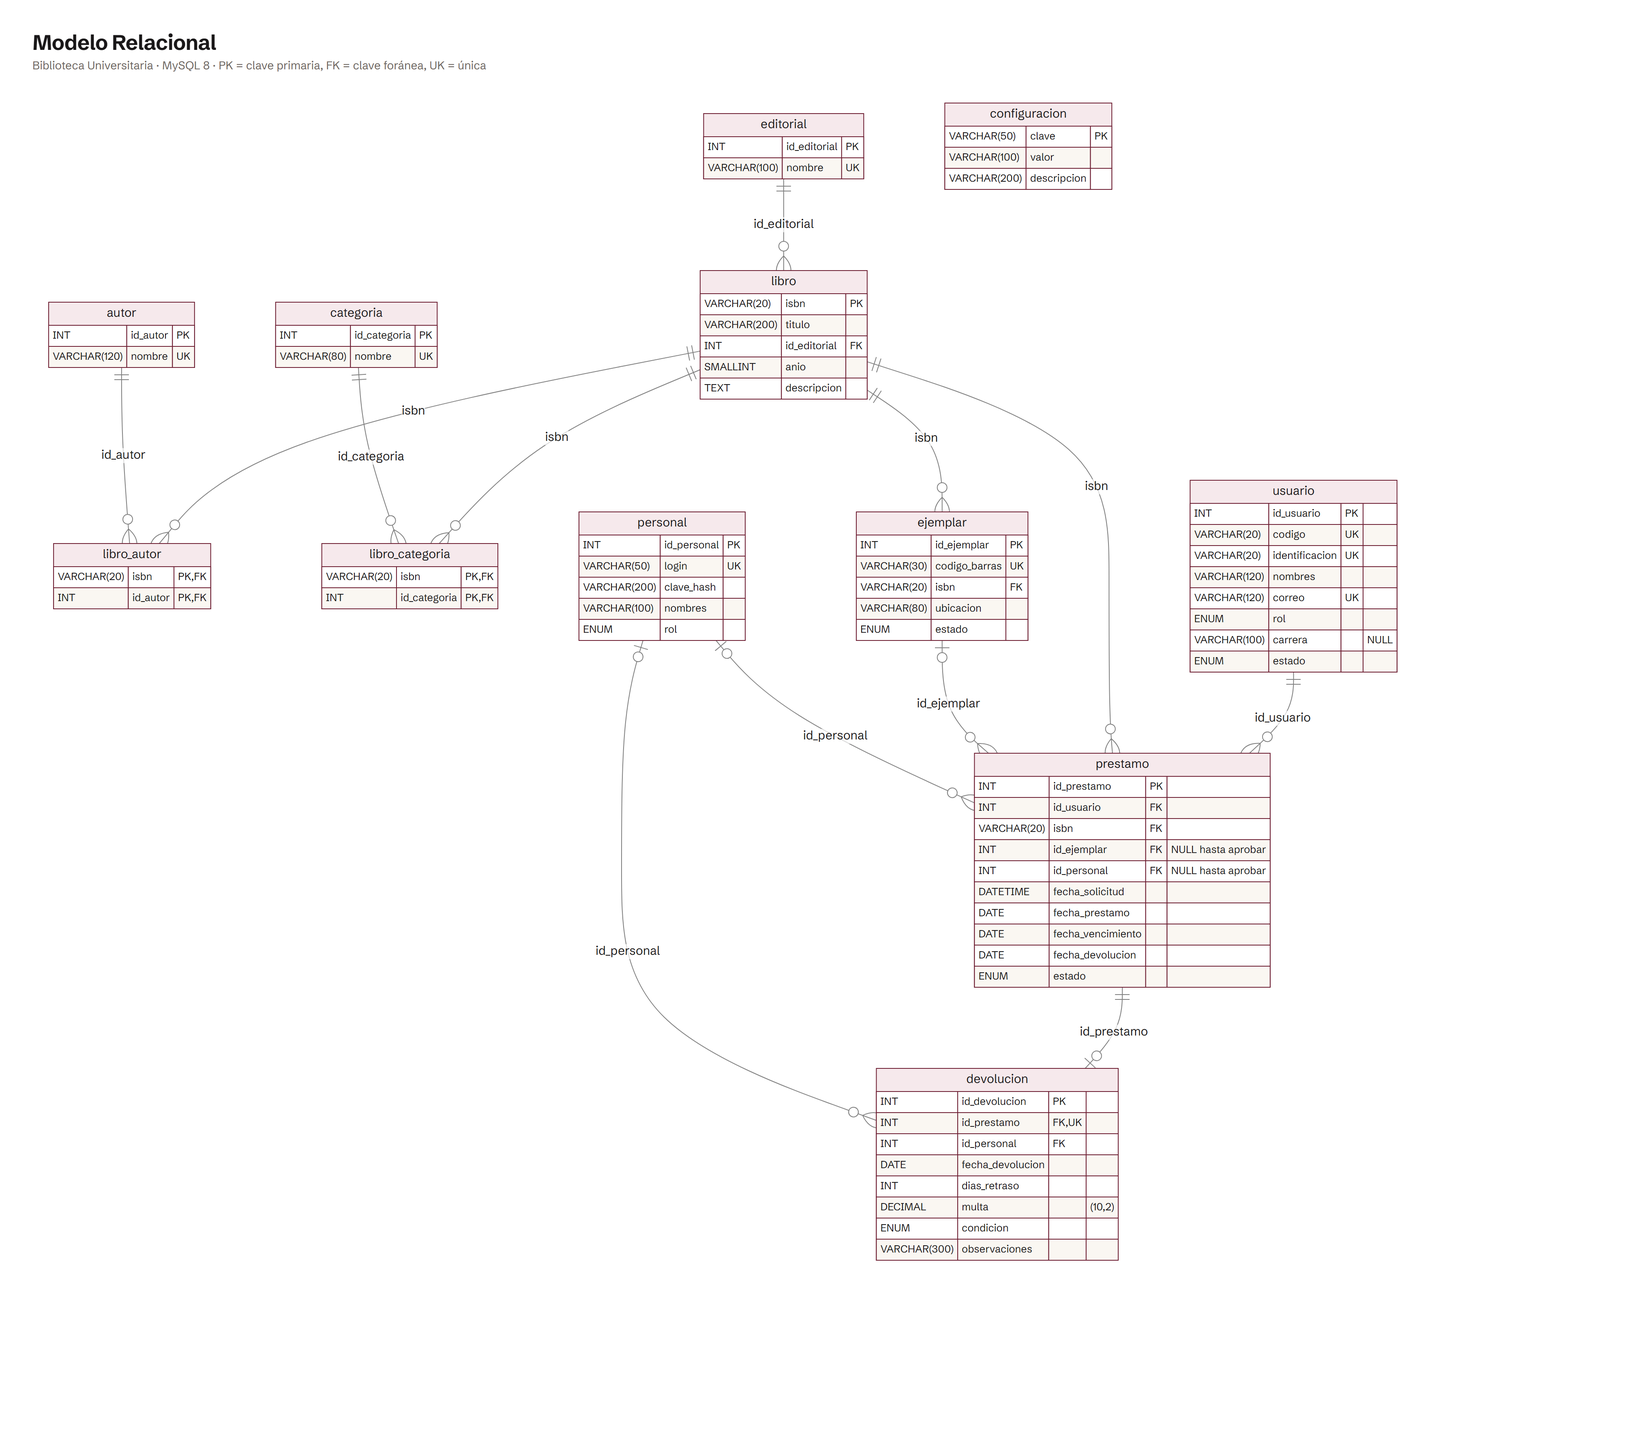
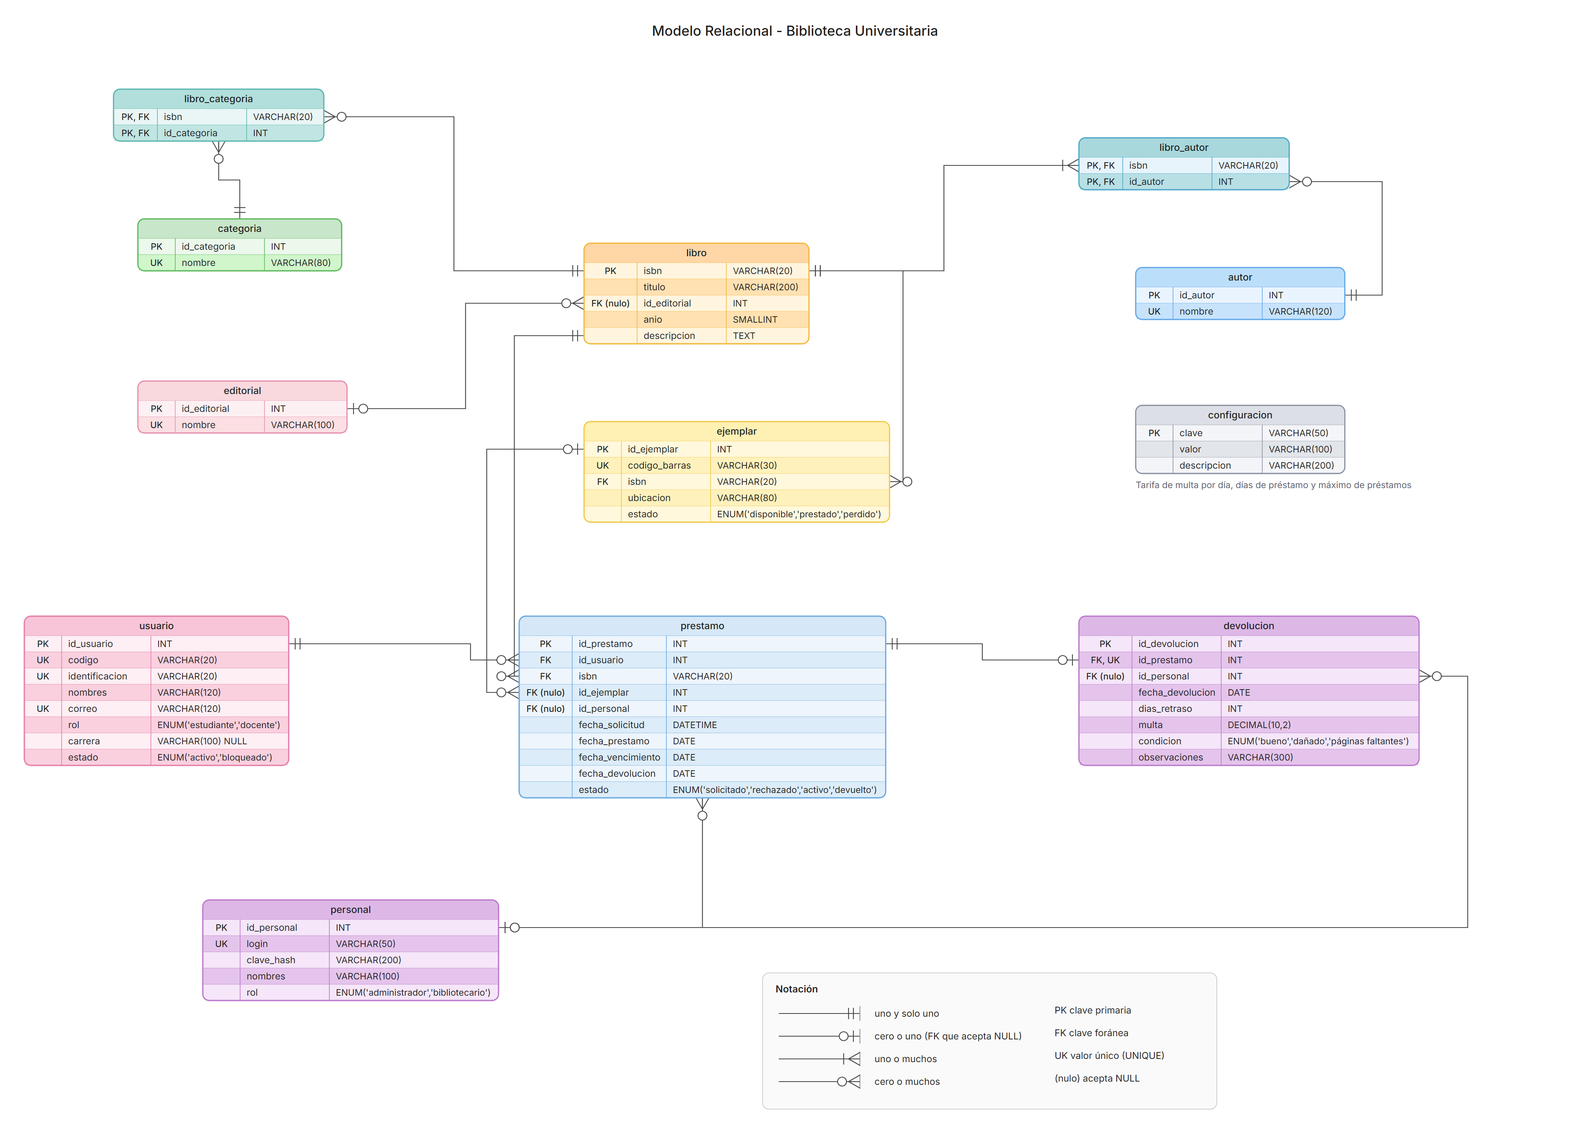
Diagramas MER (notación de Chen) y relacional corregidos y alineados con schema.sql

diff --git a/docs/fuentes/Modelo_Relacional.html b/docs/fuentes/Modelo_Relacional.html
@@ -1,0 +1,154 @@
+<!doctype html>
+<html><head><meta charset="utf-8">
+<link href="https://fonts.googleapis.com/css2?family=Inter:wght@400;500;600&display=swap" rel="stylesheet">
+<style>html,body{margin:0;background:#fff}svg{display:block}</style>
+</head><body>
+<svg id="s" xmlns="http://www.w3.org/2000/svg"></svg>
+<script>
+const W = 1960, H = 1390;
+const svg = document.getElementById("s");
+svg.setAttribute("width", W); svg.setAttribute("height", H); svg.setAttribute("viewBox", `0 0 ${W} ${H}`);
+const NS = "http://www.w3.org/2000/svg";
+const el = (t, a, parent = svg) => { const e = document.createElementNS(NS, t); for (const k in a) e.setAttribute(k, a[k]); parent.appendChild(e); return e; };
+const txt = (x, y, s, a = {}, parent = svg) => { const e = el("text", { x, y, "font-family": "Inter, Arial, sans-serif", "font-size": 12, fill: "#1f1f1f", ...a }, parent); e.textContent = s; return e; };
+const ctx = document.createElement("canvas").getContext("2d");
+const measure = (s, w = 400) => { ctx.font = `${w} 12px Inter, Arial`; return ctx.measureText(s).width; };
+
+// paletas en el estilo original: [encabezado, fila clara, fila oscura, borde]
+const P = {
+  teal:   ["#B2DFDB", "#EAF6F5", "#B2DFDB", "#5BB6AD"],
+  tealb:  ["#A8D8DC", "#E8F4FB", "#A8D8DC", "#4FA8C9"],
+  green:  ["#C8E6C9", "#ECF8EC", "#C8F5C0", "#5CB85C"],
+  orange: ["#FFD6A6", "#FFF5DF", "#FFD9A3", "#F2B83D"],
+  yellow: ["#FFF0B3", "#FFF8DC", "#FFEFB0", "#F2C94C"],
+  pink:   ["#F9D9DE", "#FDF0F3", "#F9D9DE", "#E58FB0"],
+  blue:   ["#BBDEFB", "#EAF4FE", "#BBDEFB", "#64A8E8"],
+  rose:   ["#F8C5D8", "#FDEFF4", "#F8C5D8", "#E57BA8"],
+  sky:    ["#D6E8F7", "#EEF5FC", "#D6E8F7", "#6AA9E0"],
+  purple: ["#DDB8E6", "#F5E6F9", "#DDB8E6", "#BB77CC"],
+  gray:   ["#DCDFE6", "#F4F5F8", "#DCDFE6", "#8C93A3"],
+};
+const T = {
+  libro_categoria: { x: 140, y: 110, c: "teal", rows: [["PK, FK", "isbn", "VARCHAR(20)"], ["PK, FK", "id_categoria", "INT"]] },
+  categoria: { x: 170, y: 270, c: "green", rows: [["PK", "id_categoria", "INT"], ["UK", "nombre", "VARCHAR(80)"]] },
+  libro: { x: 720, y: 300, c: "orange", rows: [["PK", "isbn", "VARCHAR(20)"], ["", "titulo", "VARCHAR(200)"], ["FK (nulo)", "id_editorial", "INT"], ["", "anio", "SMALLINT"], ["", "descripcion", "TEXT"]] },
+  libro_autor: { x: 1330, y: 170, c: "tealb", rows: [["PK, FK", "isbn", "VARCHAR(20)"], ["PK, FK", "id_autor", "INT"]] },
+  autor: { x: 1400, y: 330, c: "blue", rows: [["PK", "id_autor", "INT"], ["UK", "nombre", "VARCHAR(120)"]] },
+  editorial: { x: 170, y: 470, c: "pink", rows: [["PK", "id_editorial", "INT"], ["UK", "nombre", "VARCHAR(100)"]] },
+  ejemplar: { x: 720, y: 520, c: "yellow", rows: [["PK", "id_ejemplar", "INT"], ["UK", "codigo_barras", "VARCHAR(30)"], ["FK", "isbn", "VARCHAR(20)"], ["", "ubicacion", "VARCHAR(80)"], ["", "estado", "ENUM('disponible','prestado','perdido')"]] },
+  configuracion: { x: 1400, y: 500, c: "gray", rows: [["PK", "clave", "VARCHAR(50)"], ["", "valor", "VARCHAR(100)"], ["", "descripcion", "VARCHAR(200)"]] },
+  usuario: { x: 30, y: 760, c: "rose", rows: [["PK", "id_usuario", "INT"], ["UK", "codigo", "VARCHAR(20)"], ["UK", "identificacion", "VARCHAR(20)"], ["", "nombres", "VARCHAR(120)"], ["UK", "correo", "VARCHAR(120)"], ["", "rol", "ENUM('estudiante','docente')"], ["", "carrera", "VARCHAR(100) NULL"], ["", "estado", "ENUM('activo','bloqueado')"]] },
+  prestamo: { x: 640, y: 760, c: "sky", rows: [["PK", "id_prestamo", "INT"], ["FK", "id_usuario", "INT"], ["FK", "isbn", "VARCHAR(20)"], ["FK (nulo)", "id_ejemplar", "INT"], ["FK (nulo)", "id_personal", "INT"], ["", "fecha_solicitud", "DATETIME"], ["", "fecha_prestamo", "DATE"], ["", "fecha_vencimiento", "DATE"], ["", "fecha_devolucion", "DATE"], ["", "estado", "ENUM('solicitado','rechazado','activo','devuelto')"]] },
+  devolucion: { x: 1330, y: 760, c: "purple", rows: [["PK", "id_devolucion", "INT"], ["FK, UK", "id_prestamo", "INT"], ["FK (nulo)", "id_personal", "INT"], ["", "fecha_devolucion", "DATE"], ["", "dias_retraso", "INT"], ["", "multa", "DECIMAL(10,2)"], ["", "condicion", "ENUM('bueno','dañado','páginas faltantes')"], ["", "observaciones", "VARCHAR(300)"]] },
+  personal: { x: 250, y: 1110, c: "purple", rows: [["PK", "id_personal", "INT"], ["UK", "login", "VARCHAR(50)"], ["", "clave_hash", "VARCHAR(200)"], ["", "nombres", "VARCHAR(100)"], ["", "rol", "ENUM('administrador','bibliotecario')"]] },
+};
+const HH = 24, RH = 20, PADX = 8;
+
+// medir columnas
+for (const [name, t] of Object.entries(T)) {
+  t.c0 = Math.max(46, ...t.rows.map(r => measure(r[0], 500) + 2 * PADX));
+  t.c1 = Math.max(...t.rows.map(r => measure(r[1]) + 2 * PADX), 110);
+  t.c2 = Math.max(...t.rows.map(r => measure(r[2]) + 2 * PADX), 90);
+  t.w = Math.max(t.c0 + t.c1 + t.c2, measure(name, 500) + 40);
+  t.c2 = t.w - t.c0 - t.c1;
+  t.h = HH + t.rows.length * RH;
+}
+const anchor = (tn, ri, side) => {
+  const t = T[tn];
+  if (side === "top") return { x: t.x + (ri ?? t.w / 2), y: t.y, d: [0, -1] };
+  if (side === "bottom") return { x: t.x + (ri ?? t.w / 2), y: t.y + t.h, d: [0, 1] };
+  const y = t.y + HH + ri * RH + RH / 2;
+  return side === "left" ? { x: t.x, y, d: [-1, 0] } : { x: t.x + t.w, y, d: [1, 0] };
+};
+
+const lines = el("g", { stroke: "#4a4a4a", "stroke-width": 1.1, fill: "none" });
+// marcador IE (patas de gallo) en el extremo p, dirección d (hacia afuera de la tabla)
+function marker(p, kind) {
+  const [dx, dy] = p.d, nx = -dy, ny = dx;
+  const at = (k) => ({ x: p.x + dx * k, y: p.y + dy * k });
+  const bar = (k) => { const q = at(k); el("line", { x1: q.x + nx * 7, y1: q.y + ny * 7, x2: q.x - nx * 7, y2: q.y - ny * 7 }, lines); };
+  const circ = (k) => { const q = at(k); el("circle", { cx: q.x, cy: q.y, r: 5.5, fill: "#fff" }, lines); };
+  const crow = () => { const q = at(14); for (const s of [-1, 0, 1]) el("line", { x1: q.x, y1: q.y, x2: p.x + nx * 8 * s, y2: p.y + ny * 8 * s }, lines); };
+  if (kind === "||") { bar(8); bar(14); }
+  if (kind === "o|") { bar(8); circ(20); }
+  if (kind === "|<") { crow(); bar(20); }
+  if (kind === "o<") { crow(); circ(22); }
+}
+// conector ortogonal: a -> (stub) -> codos -> (stub) -> b
+function link(a, b, ka, kb, via) {
+  const s1 = { x: a.x + a.d[0] * 26, y: a.y + a.d[1] * 26 }, s2 = { x: b.x + b.d[0] * 26, y: b.y + b.d[1] * 26 };
+  let pts = [a, s1];
+  if (via) pts.push(...via(s1, s2)); else {
+    if (a.d[0] !== 0 && b.d[0] !== 0) { const mx = (s1.x + s2.x) / 2; pts.push({ x: mx, y: s1.y }, { x: mx, y: s2.y }); }
+    else if (a.d[1] !== 0 && b.d[1] !== 0) { const my = (s1.y + s2.y) / 2; pts.push({ x: s1.x, y: my }, { x: s2.x, y: my }); }
+    else if (a.d[0] !== 0) pts.push({ x: s2.x, y: s1.y }); else pts.push({ x: s1.x, y: s2.y });
+  }
+  pts.push(s2, b);
+  el("polyline", { points: pts.map(p => `${p.x},${p.y}`).join(" ") }, lines);
+  marker(a, ka); marker(b, kb);
+}
+
+// título
+txt(W / 2, 44, "Modelo Relacional - Biblioteca Universitaria", { "text-anchor": "middle", "font-size": 17, "font-weight": 500 });
+
+// relaciones (padre -> hijo)
+link(anchor("categoria", null, "top"), anchor("libro_categoria", null, "bottom"), "||", "o<");
+link(anchor("libro", 0, "left"), anchor("libro_categoria", 0, "right"), "||", "o<");
+link(anchor("libro", 0, "right"), anchor("libro_autor", 0, "left"), "||", "|<");
+link(anchor("autor", 0, "right"), anchor("libro_autor", 1, "right"), "||", "o<", (s1, s2) => [{ x: Math.max(s1.x, s2.x) + 20, y: s1.y }, { x: Math.max(s1.x, s2.x) + 20, y: s2.y }]);
+link(anchor("editorial", 0, "right"), anchor("libro", 2, "left"), "o|", "o<");
+link(anchor("libro", 0, "right"), anchor("ejemplar", 2, "right"), "||", "o<", (s1, s2) => [{ x: s1.x + 90, y: s1.y }, { x: s1.x + 90, y: s2.y }]);
+link(anchor("libro", 4, "left"), anchor("prestamo", 2, "left"), "||", "o<", (s1, s2) => [{ x: s1.x - 60, y: s1.y }, { x: s1.x - 60, y: s2.y }]);
+link(anchor("usuario", 0, "right"), anchor("prestamo", 1, "left"), "||", "o<", (s1, s2) => [{ x: 580, y: s1.y }, { x: 580, y: s2.y }]);
+link(anchor("ejemplar", 0, "left"), anchor("prestamo", 3, "left"), "o|", "o<", (s1, s2) => [{ x: 600, y: s1.y }, { x: 600, y: s2.y }]);
+link(anchor("personal", 0, "right"), anchor("prestamo", null, "bottom"), "o|", "o<", (s1, s2) => [{ x: s2.x, y: s1.y }]);
+link(anchor("prestamo", 0, "right"), anchor("devolucion", 1, "left"), "||", "o|");
+link(anchor("personal", 0, "right"), anchor("devolucion", 2, "right"), "o|", "o<", (s1, s2) => [{ x: T.devolucion.x + T.devolucion.w + 60, y: s1.y }, { x: T.devolucion.x + T.devolucion.w + 60, y: s2.y }]);
+
+// tablas
+for (const [name, t] of Object.entries(T)) {
+  const [hc, lc, dc, bc] = P[t.c];
+  const g = el("g", {});
+  el("rect", { x: t.x, y: t.y, width: t.w, height: t.h, rx: 8, fill: lc, stroke: bc, "stroke-width": 1.3 }, g);
+  el("path", { d: `M${t.x} ${t.y + HH} V${t.y + 8} Q${t.x} ${t.y} ${t.x + 8} ${t.y} H${t.x + t.w - 8} Q${t.x + t.w} ${t.y} ${t.x + t.w} ${t.y + 8} V${t.y + HH} Z`, fill: hc }, g);
+  t.rows.forEach((r, i) => {
+    const y = t.y + HH + i * RH;
+    if (i % 2) el("rect", { x: t.x + 1, y, width: t.w - 2, height: RH, fill: dc, opacity: .75 }, g);
+    if (i === t.rows.length - 1) el("rect", { x: t.x, y: y, width: t.w, height: RH, rx: 8, fill: "none" }, g);
+    el("line", { x1: t.x, y1: y, x2: t.x + t.w, y2: y, stroke: bc, "stroke-width": .6, opacity: .7 }, g);
+    txt(t.x + t.c0 / 2, y + 14, r[0], { "text-anchor": "middle", "font-size": 11, "font-weight": r[0] ? 500 : 400 }, g);
+    txt(t.x + t.c0 + PADX, y + 14, r[1], { "font-size": 11.5 }, g);
+    txt(t.x + t.c0 + t.c1 + PADX, y + 14, r[2], { "font-size": 11 }, g);
+  });
+  for (const cx of [t.c0, t.c0 + t.c1]) el("line", { x1: t.x + cx, y1: t.y + HH, x2: t.x + cx, y2: t.y + t.h, stroke: bc, "stroke-width": .8 }, g);
+  el("rect", { x: t.x, y: t.y, width: t.w, height: t.h, rx: 8, fill: "none", stroke: bc, "stroke-width": 1.4 }, g);
+  txt(t.x + t.w / 2, t.y + 16, name, { "text-anchor": "middle", "font-size": 12, "font-weight": 500 }, g);
+}
+
+// nota de configuracion
+txt(T.configuracion.x, T.configuracion.y + T.configuracion.h + 18, "Tarifa de multa por día, días de préstamo y máximo de préstamos", { "font-size": 11, fill: "#5f6470" });
+
+// leyenda
+const lx = 940, ly = 1200;
+el("rect", { x: lx, y: ly, width: 560, height: 168, rx: 8, fill: "#fafafa", stroke: "#cfcfcf" });
+txt(lx + 16, ly + 24, "Notación", { "font-weight": 600 });
+const demo = (y, kind, label) => {
+  const a = { x: lx + 120, y, d: [-1, 0] };
+  el("line", { x1: lx + 20, y1: y, x2: lx + 120, y2: y }, lines);
+  el("line", { x1: lx + 120, y1: y - 9, x2: lx + 120, y2: y + 9, stroke: "#9a9a9a" }, lines);
+  marker(a, kind);
+  txt(lx + 138, y + 4, label, { "font-size": 11.5 });
+};
+demo(ly + 50, "||", "uno y solo uno");
+demo(ly + 78, "o|", "cero o uno (FK que acepta NULL)");
+demo(ly + 106, "|<", "uno o muchos");
+demo(ly + 134, "o<", "cero o muchos");
+txt(lx + 360, ly + 50, "PK  clave primaria", { "font-size": 11.5 });
+txt(lx + 360, ly + 78, "FK  clave foránea", { "font-size": 11.5 });
+txt(lx + 360, ly + 106, "UK  valor único (UNIQUE)", { "font-size": 11.5 });
+txt(lx + 360, ly + 134, "(nulo)  acepta NULL", { "font-size": 11.5 });
+svg.appendChild(lines); // líneas encima de los fondos, debajo no tapan texto
+// reordenar: tablas sobre líneas
+for (const g of [...svg.querySelectorAll("svg > g")].filter(g => g !== lines)) svg.appendChild(g);
+</script>
+</body></html>

diff --git a/docs/fuentes/MER.html b/docs/fuentes/MER.html
@@ -1,0 +1,166 @@
+<!doctype html>
+<html><head><meta charset="utf-8">
+<link href="https://fonts.googleapis.com/css2?family=Inter:wght@400;500;600&display=swap" rel="stylesheet">
+<style>html,body{margin:0;background:#fff}svg{display:block}</style>
+</head><body>
+<svg id="s" xmlns="http://www.w3.org/2000/svg"></svg>
+<script>
+const W = 1780, H = 1190;
+const svg = document.getElementById("s");
+svg.setAttribute("width", W); svg.setAttribute("height", H); svg.setAttribute("viewBox", `0 0 ${W} ${H}`);
+const NS = "http://www.w3.org/2000/svg";
+const el = (t, a, p) => { const e = document.createElementNS(NS, t); for (const k in a) e.setAttribute(k, a[k]); (p || svg).appendChild(e); return e; };
+const F = "Inter, Arial, sans-serif";
+const txt = (x, y, s, a = {}, p) => { const e = el("text", { x, y, "font-family": F, "font-size": 12, fill: "#1f1f1f", "text-anchor": "middle", "dominant-baseline": "central", ...a }, p); e.textContent = s; return e; };
+const ctx = document.createElement("canvas").getContext("2d");
+const measure = (s, size = 12) => { ctx.font = `400 ${size}px Inter, Arial`; return ctx.measureText(s).width; };
+
+const gLines = el("g", { stroke: "#7a7a7a", "stroke-width": 1, fill: "none" });
+const gAttrLines = el("g", { stroke: "#9a9a9a", "stroke-width": .9 });
+const gShapes = el("g", {});
+const gLabels = el("g", {});
+
+// ---------- entidades ----------
+const E = {
+  AUTOR: [190, 400], LIBRO: [690, 400], EDITORIAL: [1160, 150], CATEGORIA: [1160, 268],
+  EJEMPLAR: [1160, 520], USUARIO: [560, 770], PRESTAMO: [1010, 770], DEVOLUCION: [1430, 770],
+  PERSONAL: [1010, 1080], CONFIGURACION: [210, 1080],
+};
+const EW = {}, EH = 34;
+for (const [n, [x, y]] of Object.entries(E)) {
+  const w = Math.max(84, measure(n, 12) + 28); EW[n] = w;
+}
+const drawEntity = (n) => {
+  const [x, y] = E[n], w = EW[n];
+  el("rect", { x: x - w / 2, y: y - EH / 2, width: w, height: EH, rx: 3, fill: "#FDDCEF", stroke: "#E66AAE", "stroke-width": 1.4 }, gShapes);
+  txt(x, y, n, { "font-size": 12, "font-weight": 500 }, gShapes);
+};
+
+// ---------- atributos ----------
+function attr(ent, x, y, label, key = false) {
+  const [ex, ey] = E[ent];
+  el("line", { x1: ex, y1: ey, x2: x, y2: y }, gAttrLines);
+  const rx = Math.max(40, measure(label, 12) / 2 + 16);
+  el("ellipse", { cx: x, cy: y, rx, ry: 19, fill: "#BFF3EA", stroke: "#4CB8A8", "stroke-width": 1.2 }, gShapes);
+  const t = txt(x, y, label, { "font-size": 12 }, gShapes);
+  if (key) el("line", { x1: x - measure(label) / 2, y1: y + 8, x2: x + measure(label) / 2, y2: y + 8, stroke: "#1f1f1f", "stroke-width": 1 }, gShapes);
+}
+
+// ---------- relaciones (rombo) ----------
+function rel(x, y, label, tipo, tipoPos = "top") {
+  const w = Math.max(84, measure(label, 11.5) + 30), h = 52;
+  el("polygon", { points: `${x},${y - h / 2} ${x + w / 2},${y} ${x},${y + h / 2} ${x - w / 2},${y}`, fill: "#FFD9A6", stroke: "#F0A040", "stroke-width": 1.3 }, gShapes);
+  txt(x, y, label, { "font-size": 11.5 }, gShapes);
+  const [tx, ty] = tipoPos === "top" ? [x, y - h / 2 - 14] : tipoPos === "left" ? [x - w / 2 - 22, y - 14] : [x + w / 2 + 22, y - 14];
+  txt(tx, ty, tipo, { "font-size": 12.5, "font-weight": 600, fill: "#333" }, gLabels);
+}
+const path = (pts) => el("polyline", { points: pts.map(p => p.join(",")).join(" ") }, gLines);
+const card = (x, y, s, anchor = "middle") => txt(x, y, s, { "font-size": 12, "font-weight": 600, fill: "#444", "text-anchor": anchor }, gLabels);
+
+// título
+el("rect", { x: 1060, y: 18, width: 470, height: 36, rx: 4, fill: "#fff", stroke: "#555" });
+txt(1295, 36, "Modelo Entidad-Relación (MER) - Biblioteca Universitaria", { "font-size": 12.5 });
+
+// ===== relaciones y líneas =====
+// escribe  AUTOR (1,N) — LIBRO (1,N)  N:M
+path([[E.AUTOR[0] + EW.AUTOR / 2, 400], [E.LIBRO[0] - EW.LIBRO / 2, 400]]);
+rel(440, 400, "escribe", "N:M");
+card(275, 384, "(1,N)"); card(612, 384, "(1,N)");
+
+// publica  EDITORIAL (0,N) — LIBRO (0,1)  1:N
+path([[700, 383], [700, 150], [E.EDITORIAL[0] - EW.EDITORIAL / 2, 150]]);
+rel(925, 150, "publica", "1:N");
+card(722, 362, "(0,1)", "start"); card(1080, 134, "(0,N)");
+
+// clasificado_en  LIBRO (0,N) — CATEGORIA (0,N)  N:M
+path([[725, 383], [725, 268], [E.CATEGORIA[0] - EW.CATEGORIA / 2, 268]]);
+rel(925, 268, "clasificado_en", "N:M");
+card(747, 300, "(0,N)", "start"); card(1080, 252, "(0,N)");
+
+// tiene  LIBRO (0,N) — EJEMPLAR (1,1)  1:N
+path([[E.LIBRO[0] + EW.LIBRO / 2, 400], [1160, 400], [1160, 503]]);
+rel(925, 400, "tiene", "1:N");
+card(766, 384, "(0,N)"); card(1178, 488, "(1,1)", "start");
+
+// corresponde_a  LIBRO (0,N) — PRESTAMO (1,1)  1:N
+path([[690, 417], [690, 600], [990, 600], [990, 753]]);
+rel(690, 560, "corresponde_a", "1:N", "left");
+card(706, 440, "(0,N)", "start"); card(972, 734, "(1,1)", "end");
+
+// asignado_a  EJEMPLAR (0,N) — PRESTAMO (0,1)  1:N
+path([[1160, 537], [1160, 650], [1030, 650], [1030, 753]]);
+rel(1160, 615, "asignado_a", "1:N", "right");
+card(1178, 556, "(0,N)", "start"); card(1048, 734, "(0,1)", "start");
+
+// solicita  USUARIO (0,N) — PRESTAMO (1,1)  1:N
+path([[E.USUARIO[0] + EW.USUARIO / 2, 770], [E.PRESTAMO[0] - EW.PRESTAMO / 2, 770]]);
+rel(785, 770, "solicita", "1:N");
+card(640, 754, "(0,N)"); card(930, 754, "(1,1)");
+
+// genera  PRESTAMO (0,1) — DEVOLUCION (1,1)  1:1
+path([[E.PRESTAMO[0] + EW.PRESTAMO / 2, 770], [E.DEVOLUCION[0] - EW.DEVOLUCION / 2, 770]]);
+rel(1215, 770, "genera", "1:1");
+card(1090, 754, "(0,1)"); card(1342, 754, "(1,1)");
+
+// aprueba  PERSONAL (0,N) — PRESTAMO (0,1)  1:N
+path([[1010, 787], [1010, 1063]]);
+rel(1010, 930, "aprueba", "1:N", "right");
+card(1026, 806, "(0,1)", "start"); card(1026, 1046, "(0,N)", "start");
+
+// recibe  PERSONAL (0,N) — DEVOLUCION (0,1)  1:N
+path([[E.PERSONAL[0] + EW.PERSONAL / 2, 1080], [1430, 1080], [1430, 787]]);
+rel(1430, 1080, "recibe", "1:N", "right");
+card(1094, 1064, "(0,N)"); card(1446, 806, "(0,1)", "start");
+
+// ===== atributos =====
+attr("AUTOR", 85, 345, "nombre"); attr("AUTOR", 85, 455, "id_autor", true);
+
+attr("LIBRO", 360, 325, "ISBN", true); attr("LIBRO", 480, 230, "titulo");
+attr("LIBRO", 600, 180, "año"); attr("LIBRO", 552, 332, "descripcion");
+
+attr("EDITORIAL", 1350, 108, "id_editorial", true); attr("EDITORIAL", 1350, 170, "nombre");
+attr("CATEGORIA", 1350, 236, "id_categoria", true); attr("CATEGORIA", 1350, 298, "nombre");
+
+attr("EJEMPLAR", 1355, 440, "id_ejemplar", true); attr("EJEMPLAR", 1385, 492, "codigo_barras");
+attr("EJEMPLAR", 1385, 546, "ubicación"); attr("EJEMPLAR", 1345, 600, "estado");
+
+attr("USUARIO", 430, 655, "id_usuario", true); attr("USUARIO", 560, 640, "codigo");
+attr("USUARIO", 320, 710, "identificación"); attr("USUARIO", 300, 770, "nombres");
+attr("USUARIO", 320, 830, "correo"); attr("USUARIO", 410, 885, "rol");
+attr("USUARIO", 535, 900, "carrera"); attr("USUARIO", 665, 880, "estado");
+
+attr("PRESTAMO", 870, 690, "id_prestamo", true); attr("PRESTAMO", 835, 860, "fecha_solicitud");
+attr("PRESTAMO", 880, 960, "fecha_prestamo"); attr("PRESTAMO", 1170, 700, "fecha_vencimiento");
+attr("PRESTAMO", 1195, 860, "fecha_devolución"); attr("PRESTAMO", 1140, 960, "estado");
+
+attr("DEVOLUCION", 1620, 640, "observaciones"); attr("DEVOLUCION", 1640, 695, "id_devolución", true);
+attr("DEVOLUCION", 1650, 750, "fecha_devolución"); attr("DEVOLUCION", 1650, 805, "días_retraso");
+attr("DEVOLUCION", 1630, 860, "multa"); attr("DEVOLUCION", 1580, 915, "condición");
+
+attr("PERSONAL", 850, 1030, "id_personal", true); attr("PERSONAL", 830, 1090, "login");
+attr("PERSONAL", 870, 1148, "clave"); attr("PERSONAL", 1150, 1148, "nombres");
+attr("PERSONAL", 1190, 1025, "rol");
+
+attr("CONFIGURACION", 80, 1015, "clave", true); attr("CONFIGURACION", 80, 1140, "valor");
+attr("CONFIGURACION", 360, 1140, "descripción");
+
+for (const n of Object.keys(E)) drawEntity(n);
+
+// notas
+txt(285, 1062, "tarifa de multa por día, días de préstamo y máximo de préstamos", { "font-size": 10.5, fill: "#6b6b6b", "text-anchor": "start" }, gLabels);
+
+
+// leyenda
+const lx = 40, ly = 40;
+el("rect", { x: lx, y: ly, width: 360, height: 142, rx: 6, fill: "#fafafa", stroke: "#d0d0d0" });
+txt(lx + 16, ly + 20, "Notación", { "text-anchor": "start", "font-weight": 600 });
+el("rect", { x: lx + 16, y: ly + 36, width: 46, height: 20, rx: 3, fill: "#FDDCEF", stroke: "#E66AAE" });
+txt(lx + 72, ly + 46, "Entidad", { "text-anchor": "start", "font-size": 11.5 });
+el("polygon", { points: `${lx + 185},${ly + 34} ${lx + 207},${ly + 46} ${lx + 185},${ly + 58} ${lx + 163},${ly + 46}`, fill: "#FFD9A6", stroke: "#F0A040" });
+txt(lx + 216, ly + 46, "Relación (tipo encima)", { "text-anchor": "start", "font-size": 11.5 });
+el("ellipse", { cx: lx + 39, cy: ly + 76, rx: 23, ry: 11, fill: "#BFF3EA", stroke: "#4CB8A8" });
+txt(lx + 72, ly + 76, "Atributo  ·  subrayado = identificador", { "text-anchor": "start", "font-size": 11.5 });
+txt(lx + 16, ly + 103, "(mín,máx) junto a cada entidad = cuántas veces participa", { "text-anchor": "start", "font-size": 11.5 });
+txt(lx + 16, ly + 125, "PERSONAL = bibliotecarios y administradores", { "text-anchor": "start", "font-size": 11.5 });
+</script>
+</body></html>

diff --git a/modelo.md b/modelo.md
@@ -4,13 +4,15 @@
 
 ![MER](docs/MER.png)
 
-Fuente editable: [docs/mer.mmd](docs/mer.mmd) (Mermaid; se puede abrir en https://mermaid.live).
+Notación de Chen: entidades (rectángulos), relaciones (rombos, con su tipo encima), atributos (óvalos; subrayado = identificador) y cardinalidad (mín,máx) junto a cada entidad.
+Fuente editable: [docs/fuentes/MER.html](docs/fuentes/MER.html) · versión Mermaid: [docs/mer.mmd](docs/mer.mmd).
 
 ## Diagrama Relacional
 
 ![Modelo relacional](docs/Modelo_Relacional.png)
 
-Fuente editable: [docs/relacional.mmd](docs/relacional.mmd).
+Notación de patas de gallo; PK = clave primaria, FK = clave foránea, UK = única, (nulo) = acepta NULL.
+Fuente editable: [docs/fuentes/Modelo_Relacional.html](docs/fuentes/Modelo_Relacional.html) · versión Mermaid: [docs/relacional.mmd](docs/relacional.mmd).
 
 ---
 
